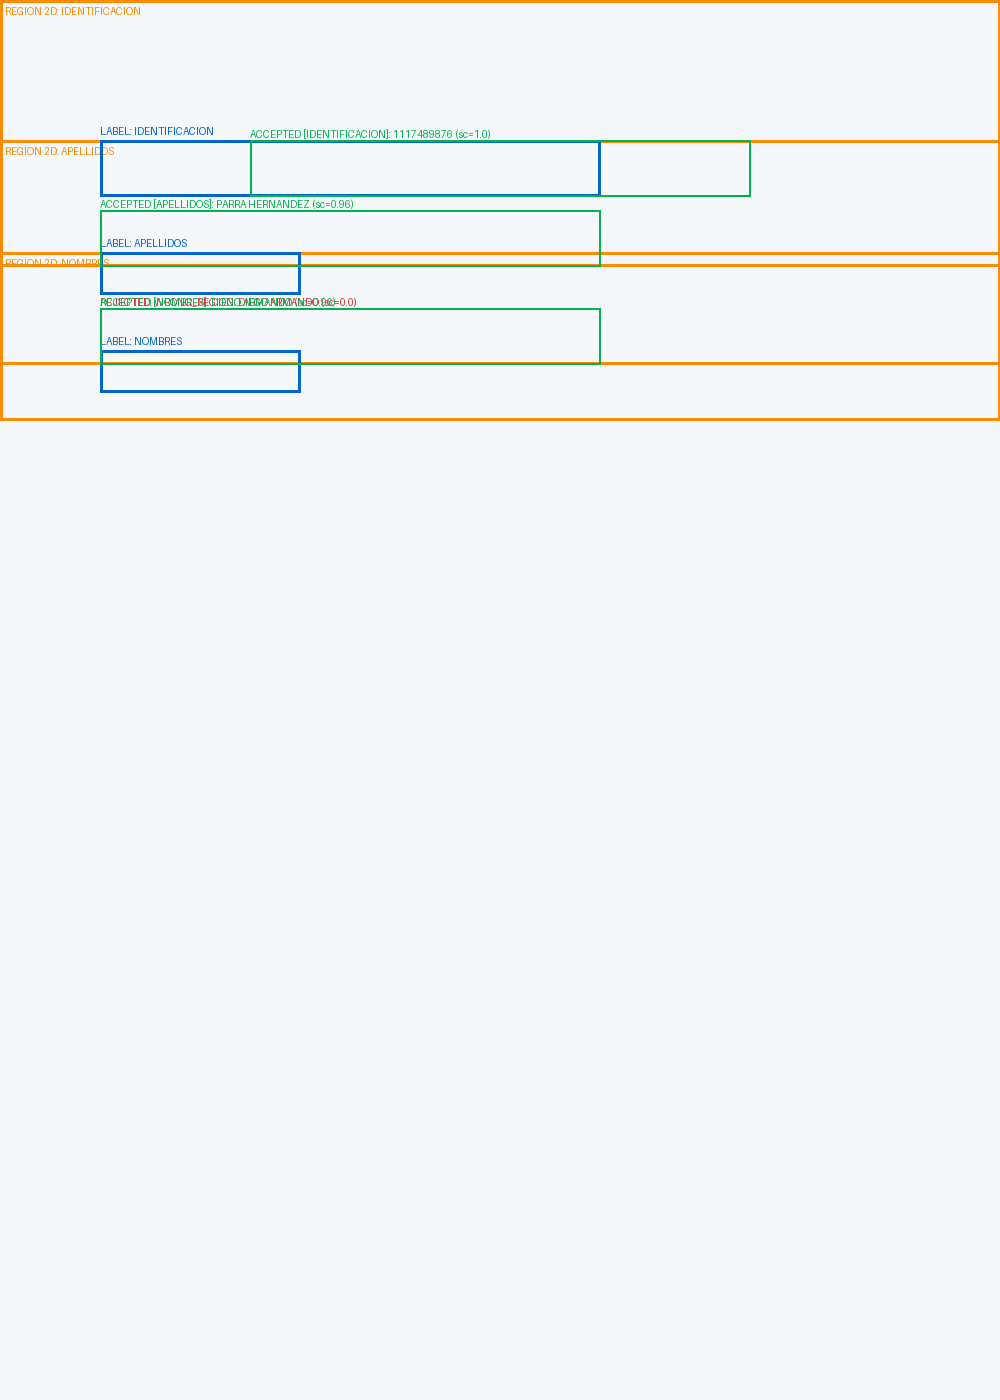
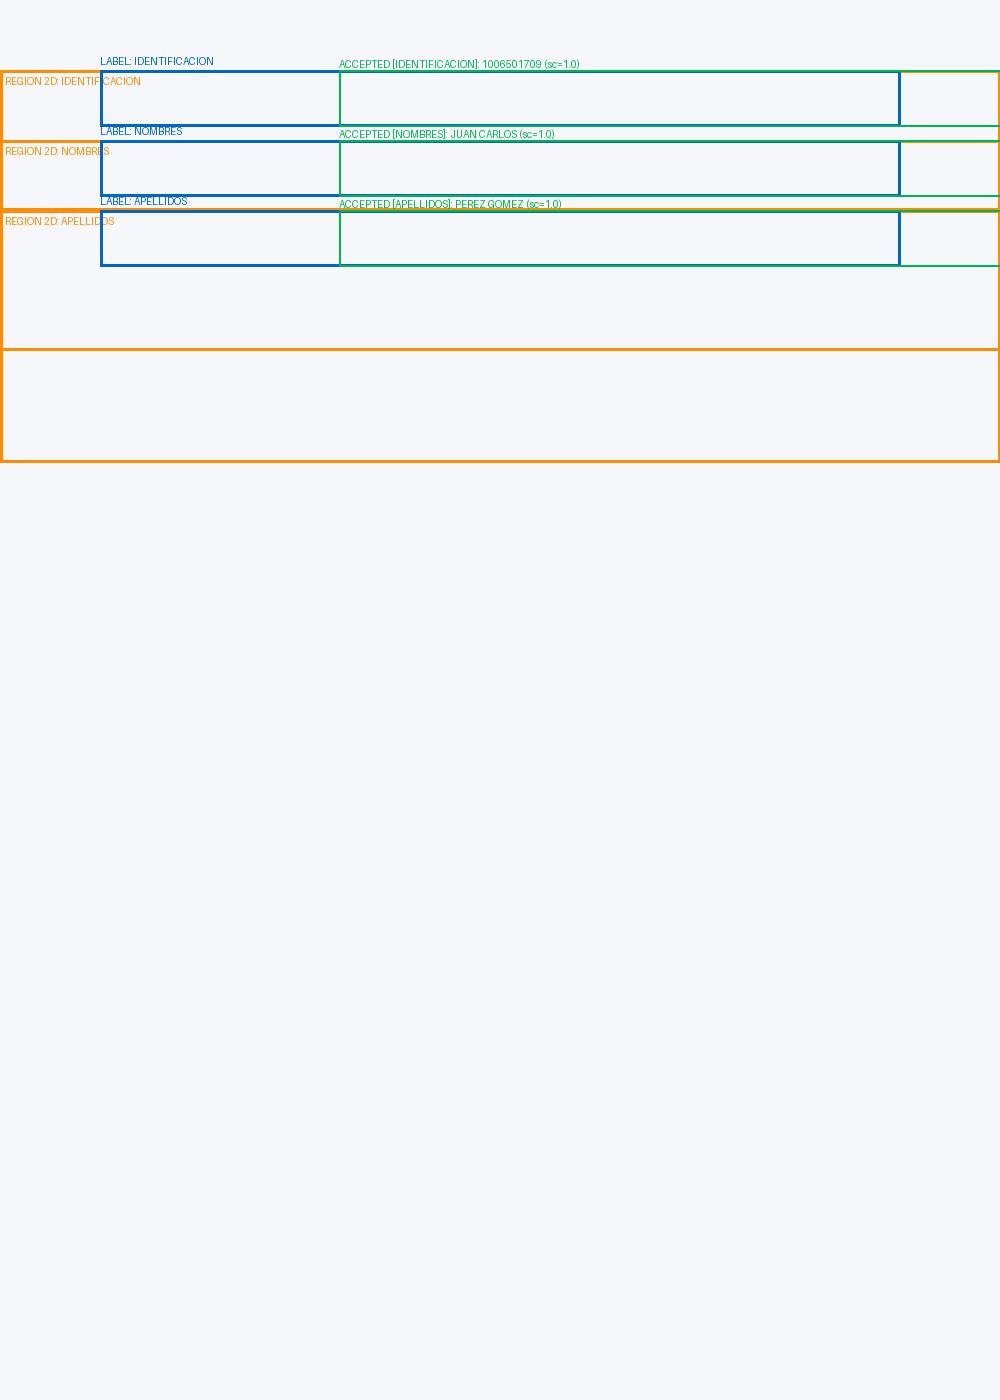
fix: configurar DNS ipv4first en Node.js y multiples candidatos de conexion en proxy route.ts para Docker Swarm

diff --git a/frontend/src/app/api/[...path]/route.ts b/frontend/src/app/api/[...path]/route.ts
@@ -1,24 +1,31 @@
 import { NextRequest, NextResponse } from "next/server";
 
-// Fallback por defecto: nombre del servicio Docker Swarm en Dokploy
-const DEFAULT_BACKEND = "http://ocr-proyecto-fastapi-d5qhym:8000";
-
-const getTargetBackend = (): string => {
+// Lista de candidatos de resolución dentro de Docker Swarm / Dokploy
+const getBackendCandidates = (): string[] => {
   const envUrl = process.env.INTERNAL_BACKEND_URL;
+  const candidates: string[] = [];
+
   if (envUrl && envUrl.trim().length > 0) {
-    return envUrl.trim();
+    candidates.push(envUrl.trim().replace(/\/$/, ""));
   }
-  return DEFAULT_BACKEND;
+
+  // Nombre de servicio en Docker Swarm (VIP)
+  candidates.push("http://ocr-proyecto-fastapi-d5qhym:8000");
+  // Nombre de tarea directa en Docker Swarm (DNS de réplicas directas)
+  candidates.push("http://tasks.ocr-proyecto-fastapi-d5qhym:8000");
+  // Fallback local
+  candidates.push("http://127.0.0.1:8000");
+
+  return Array.from(new Set(candidates));
 };
 
 async function handleProxy(
   req: NextRequest,
   { params }: { params: { path: string[] } }
 ) {
-  const backendBase = getTargetBackend().replace(/\/$/, "");
   const path = params.path ? params.path.join("/") : "";
   const searchParams = req.nextUrl.search || "";
-  const targetUrl = `${backendBase}/api/${path}${searchParams}`;
+  const candidates = getBackendCandidates();
 
   const headers = new Headers();
   req.headers.forEach((value, key) => {
@@ -41,41 +48,49 @@ async function handleProxy(
     }
   }
 
-  try {
-    const backendResponse = await fetch(targetUrl, {
-      method,
-      headers,
-      body,
-      cache: "no-store",
-    });
+  let lastError: any = null;
 
-    const responseHeaders = new Headers();
-    backendResponse.headers.forEach((value, key) => {
-      const k = key.toLowerCase();
-      // Ignorar transfer-encoding para evitar conflictos con Next.js Response
-      if (k !== "transfer-encoding" && k !== "content-encoding") {
-        responseHeaders.set(key, value);
-      }
-    });
+  for (const backendBase of candidates) {
+    const targetUrl = `${backendBase}/api/${path}${searchParams}`;
 
-    // En respuestas 204 No Content o 304 Not Modified, el body DEBE ser null
-    const isNoBodyStatus = backendResponse.status === 204 || backendResponse.status === 304;
-    const responseData = isNoBodyStatus ? null : await backendResponse.arrayBuffer();
+    try {
+      const backendResponse = await fetch(targetUrl, {
+        method,
+        headers,
+        body,
+        cache: "no-store",
+      });
 
-    return new NextResponse(responseData, {
-      status: backendResponse.status,
-      statusText: backendResponse.statusText,
-      headers: responseHeaders,
-    });
-  } catch (error: any) {
-    console.error(`[Next.js API Route Proxy Error] ${method} ${targetUrl}:`, error?.message || error);
-    return NextResponse.json(
-      {
-        detail: `No se pudo conectar con el servicio FastAPI backend en (${targetUrl}). Error: ${error?.message || "Servicio no alcanzable"}`,
-      },
-      { status: 502 }
-    );
+      const responseHeaders = new Headers();
+      backendResponse.headers.forEach((value, key) => {
+        const k = key.toLowerCase();
+        if (k !== "transfer-encoding" && k !== "content-encoding") {
+          responseHeaders.set(key, value);
+        }
+      });
+
+      // En respuestas 204 No Content o 304 Not Modified, el body DEBE ser null
+      const isNoBodyStatus = backendResponse.status === 204 || backendResponse.status === 304;
+      const responseData = isNoBodyStatus ? null : await backendResponse.arrayBuffer();
+
+      return new NextResponse(responseData, {
+        status: backendResponse.status,
+        statusText: backendResponse.statusText,
+        headers: responseHeaders,
+      });
+    } catch (err: any) {
+      lastError = err;
+      console.warn(`[Proxy Fallback] Falló conexión con ${targetUrl} (${err?.message || err}). Intentando siguiente candidato...`);
+    }
   }
+
+  console.error(`[Next.js API Route Proxy Fatal] No se pudo conectar a ningún backend para ${method} /api/${path}:`, lastError);
+  return NextResponse.json(
+    {
+      detail: `No se pudo conectar con el backend FastAPI en ninguno de los candidatos (${candidates.join(", ")}). Error: ${lastError?.message || "Servicio no alcanzable"}`,
+    },
+    { status: 502 }
+  );
 }
 
 export const GET = handleProxy;
